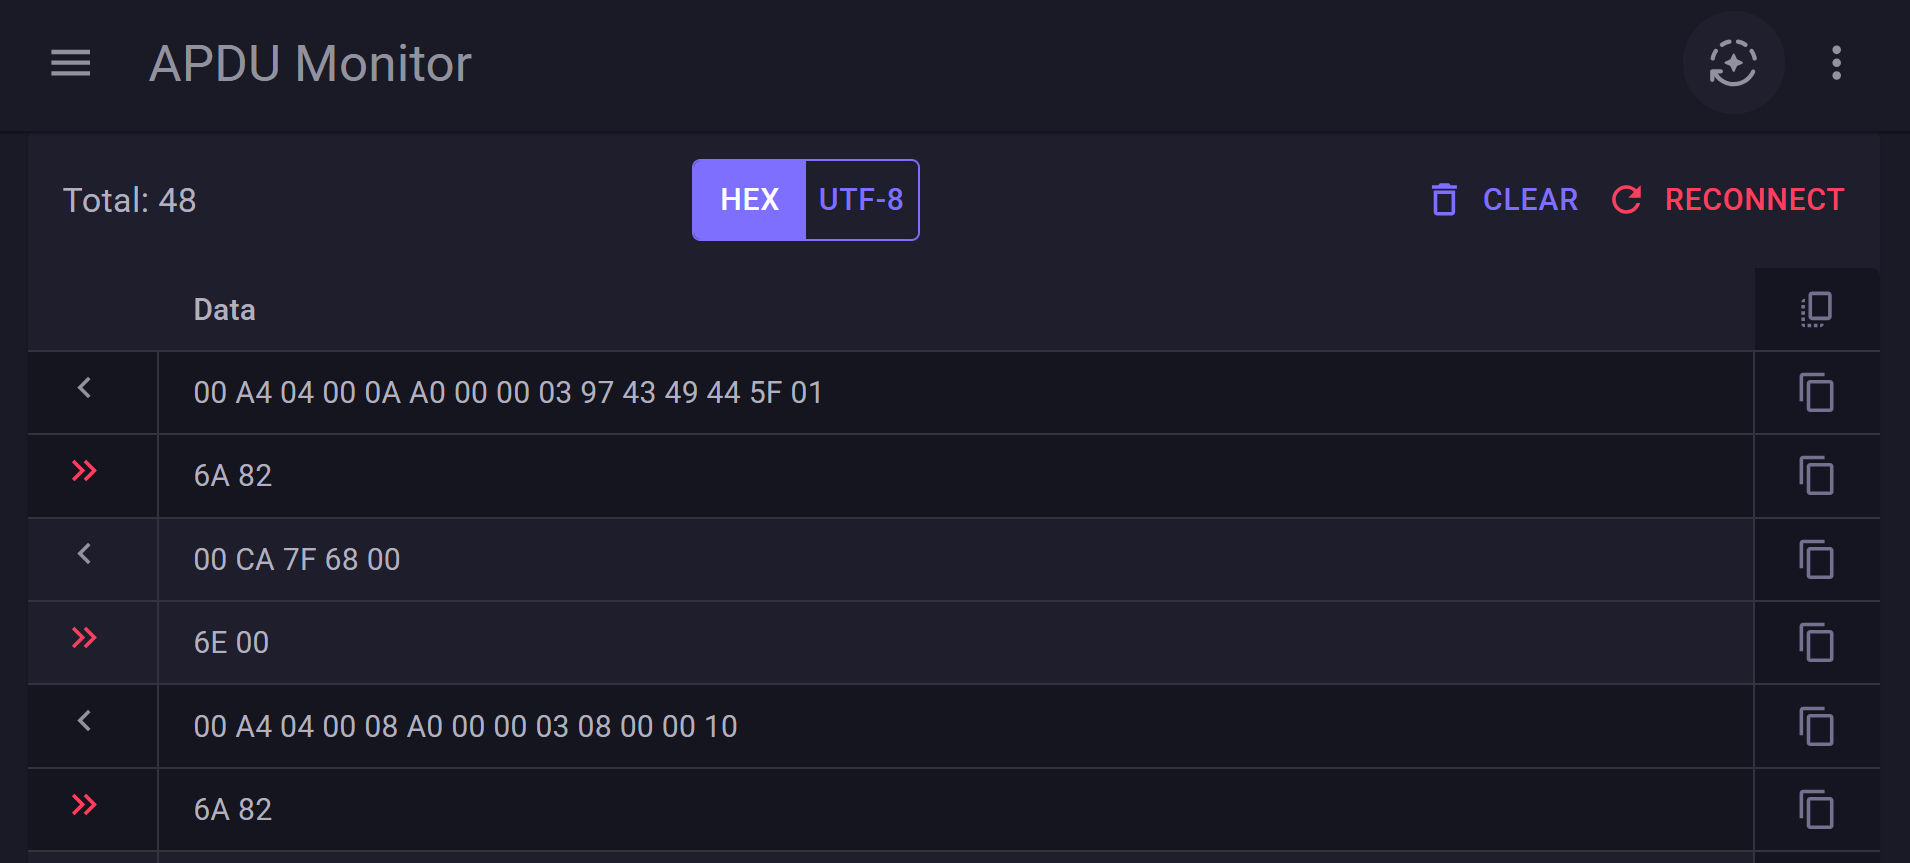
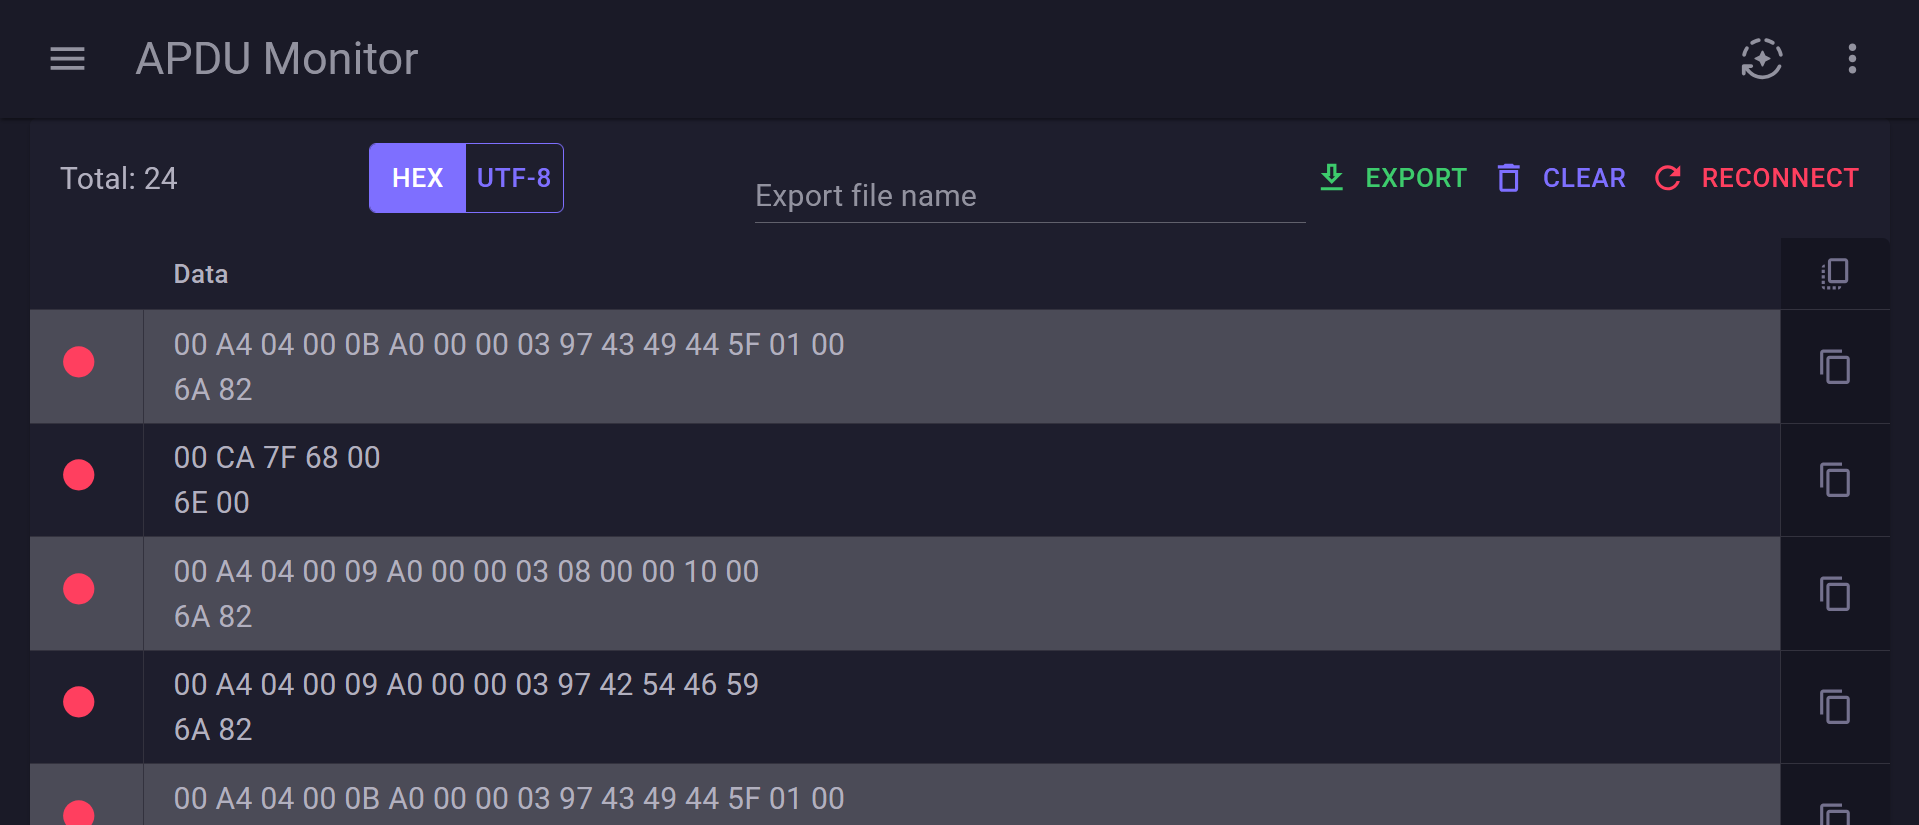
Pair command and response into transaction

diff --git a/ApduWebMonitor/Services/ApduTransaction.cs b/ApduWebMonitor/Services/ApduTransaction.cs
@@ -1,0 +1,59 @@
+using System.Text;
+using PCSC.Iso7816;
+
+namespace ApduWebMonitor.Services;
+
+public class ApduTransaction
+{
+    public CommandApdu? CommandApdu { get; private set; }
+    public byte[]? CommandBytes { get; private set; }
+
+    public ResponseApdu? ResponseApdu { get; private set; }
+    public byte[]? ResponseBytes { get; private set; }
+
+    public void SetCommand(byte[] bytes)
+    {
+        if (CommandBytes is not null)
+            throw new InvalidOperationException("Command is already set");
+
+        CommandBytes = bytes;
+        CommandApdu = ApduFactory.CommandFrom(bytes);
+    }
+
+    public void SetResponse(byte[] bytes)
+    {
+        if (CommandApdu is null)
+            throw new InvalidOperationException("Command is not set");
+
+        ResponseBytes = bytes;
+        ResponseApdu = ApduFactory.ResponseFrom(CommandApdu.Case, bytes);
+    }
+
+    public string ToCommandString(bool isReadable) => isReadable ? ToReadable(CommandApdu) : ToHex(CommandBytes);
+
+    public string ToResponseString(bool isReadable) => isReadable ? ToReadable(ResponseApdu) : ToHex(ResponseBytes);
+
+    private static string ToHex(byte[]? bytes) => bytes is not null ? BitConverter.ToString(bytes).Replace('-', ' ') : string.Empty;
+
+    private static string ToReadable(CommandApdu? apdu)
+    {
+        if (apdu is null)
+            return "";
+
+        var data = apdu.Data is null ? string.Empty : ToReadable(apdu.Data);
+        return $"{apdu.CLA:X2} {apdu.INS:X2} {apdu.P1:X2} {apdu.P2:X2} {data}".Trim();
+    }
+
+    private static string ToReadable(ResponseApdu? apdu)
+    {
+        if (apdu is null)
+            return "";
+
+        var data = apdu.HasData ? ToReadable(apdu.GetData()) : string.Empty;
+        return $"{data} {apdu.SW1:X2} {apdu.SW2:X2}".Trim();
+    }
+
+    private static string ToReadable(byte[] bytes) => string.Join(string.Empty, Encoding.UTF8.GetString(bytes).Select(x => char.IsControl(x) ? '\u0ffd' : x));
+
+    public string ToString(bool isReadable) => ToCommandString(isReadable) + Environment.NewLine + ToResponseString(isReadable);
+}

diff --git a/ApduWebMonitor/Services/ApduStore.cs b/ApduWebMonitor/Services/ApduStore.cs
@@ -5,45 +5,37 @@ namespace ApduWebMonitor.Services;
 
 public class ApduStore(ILogger<ApduStore> logger)
 {
-    private readonly ObservableCollection<RawApdu> messages = [];
-    private IsoCase lastIsoCase;
-    private bool nextIsCommand = true;
+    private readonly ObservableCollection<ApduTransaction> messages = [];
+    private ApduTransaction? currentTransaction;
 
-    public ReadOnlyObservableCollection<RawApdu> GetObservable() => new(messages);
+    public ReadOnlyObservableCollection<ApduTransaction> GetObservable() => new(messages);
 
     public void AddMessage(byte[] apduBytes)
     {
         try
         {
-            RawApdu apdu;
-            if (nextIsCommand)
+            if (currentTransaction is null)
             {
-                nextIsCommand = false;
-                apdu = RawApdu.CreateCommand(apduBytes);
-                lastIsoCase = apdu.Apdu.Case;
+                currentTransaction = new ApduTransaction();
+                currentTransaction.SetCommand(apduBytes);
             }
             else
             {
-                nextIsCommand = true;
-                apdu = RawApdu.CreateResponse(lastIsoCase, apduBytes);
+                currentTransaction.SetResponse(apduBytes);
+                messages.Add(currentTransaction);
+                currentTransaction = null;
             }
-
-            messages.Add(apdu);
         }
         catch (Exception ex)
         {
+            currentTransaction = null;
             logger.LogError(ex, "ERROR");
         }
     }
 
-    public void Reset()
-    {
-        nextIsCommand = true;
-        Clear();
-    }
-
     public void Clear()
     {
+        currentTransaction = null;
         messages.Clear();
     }
 }

diff --git a/ApduWebMonitor/External/EtwDataLoader.cs b/ApduWebMonitor/External/EtwDataLoader.cs
@@ -51,7 +51,7 @@ public class EtwDataLoader(
     {
         if (evnt.Opcode != TraceEventOpcode.Info)
         {
-            logger.LogInformation($"Not Opcode Info");
+            logger.LogInformation("Not Opcode Info");
             return;
         }
 
@@ -70,7 +70,7 @@ public class EtwDataLoader(
         if (splitData[1] == "Reset")
         {
             logger.LogInformation("Reset");
-            store.Reset();
+            store.Clear();
             return;
         }
 
